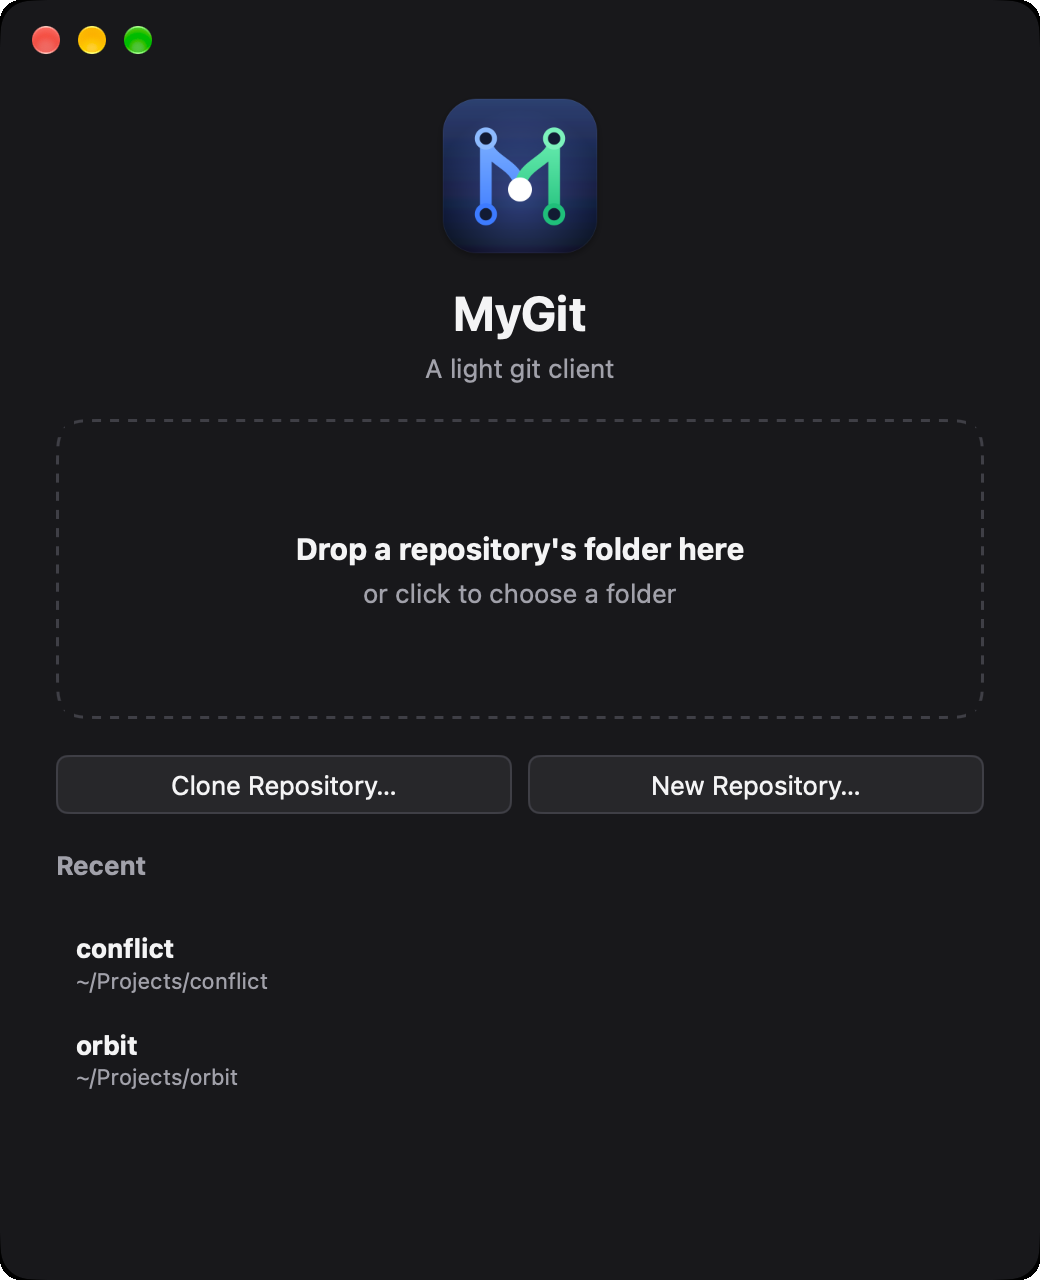
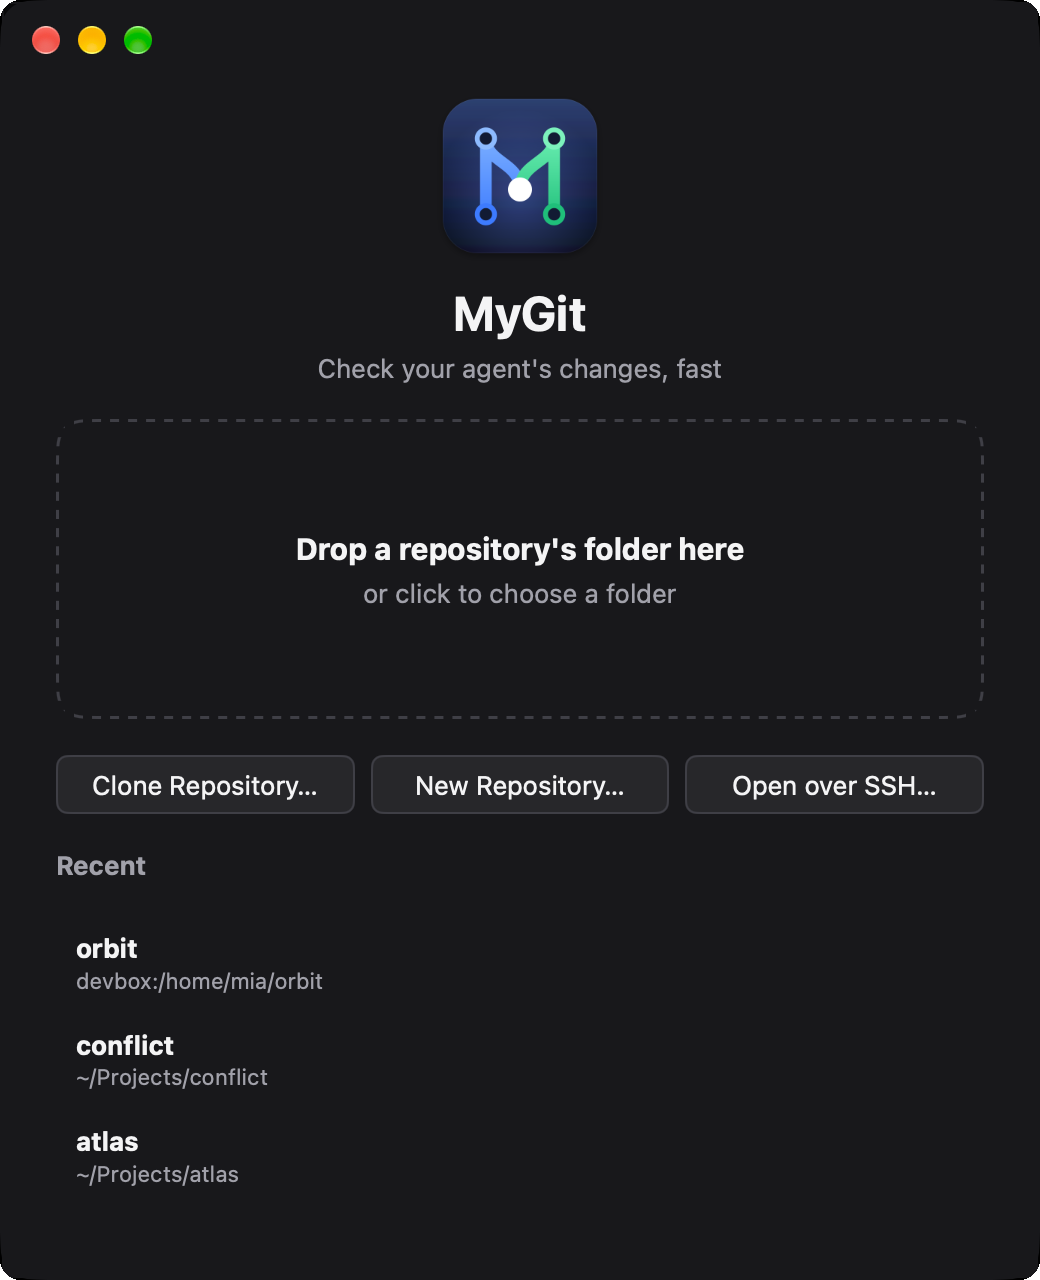
Show opening over SSH in the welcome window's screenshots
The READMEs' and the site's welcome window was of an older version, with
its old tagline and two buttons. It is rendered headless now
(TestDumpWelcome), with Open over SSH and a repository on devbox among
those opened lately.

A folder opened lately that isn't there is named by its folder again, not
read as a host's.

diff --git a/visual_test.go b/visual_test.go
@@ -232,3 +232,37 @@ func orbitRepo(t *testing.T) string {
 	write("src/api.ts", "export async function fetchAll(tries = 3) {\n  for (let i = 1; ; i++) {\n    try {\n      return (await fetch('/positions')).json()\n    } catch (e) {\n      if (i === tries) throw e\n    }\n  }\n}\n")
 	return dir
 }
+
+// TestDumpWelcome renders the welcome window into MYGIT_DUMP, 520×640 at
+// 2×, as the READMEs and the site show it: repositories opened lately, one
+// on another computer. MYGIT_LOCALE renders it in another language, as en.
+func TestDumpWelcome(t *testing.T) {
+	out := os.Getenv("MYGIT_DUMP")
+	if out == "" {
+		t.Skip()
+	}
+	if l := os.Getenv("MYGIT_LOCALE"); l != "" {
+		i18n.SetLocaleFunc(func() string { return l })
+		defer i18n.SetLocaleFunc(func() string { return "zh-Hans" })
+	}
+	home := t.TempDir()
+	t.Setenv("HOME", home)
+	var recent []string
+	for _, name := range []string{"conflict", "atlas"} {
+		dir := filepath.Join(home, "Projects", name)
+		os.MkdirAll(dir, 0o755)
+		recent = append(recent, dir)
+	}
+	old := prefs.Remotes
+	prefs.Remotes = []string{"devbox:/home/mia/orbit"}
+	defer func() { prefs.Remotes = old }()
+	w := &welcome{recent: recent}
+	tt := ui.NewTester(w.view, 520, 640)
+	tt.SetDark(true)
+	tt.SetScale(2)
+	tt.SetTitleBar(ui.TitleBar{Left: 80, Height: 28})
+	tt.Frame()
+	f, _ := os.Create(out + "/welcome.png")
+	png.Encode(f, tt.Image())
+	f.Close()
+}

diff --git a/welcome.go b/welcome.go
@@ -177,8 +177,9 @@ func (w *welcome) recentRow(c *ui.Context, location string) {
 	name, where := filepath.Base(location), homeRelative(location)
 	host, dir, remote := "", "", false
 	if !exists(location) {
-		host, dir, remote = parseLocation(location)
-		name = path.Base(dir)
+		if host, dir, remote = parseLocation(location); remote {
+			name = path.Base(dir)
+		}
 	}
 	row := ui.ButtonBase(c.Key(location)).Padding(8, 10).Gap(10).Radius(8).AlignItems(ui.Center).
 		Cursor(ui.CursorPointer).Tooltip(location).Label(loc.OpenRepoNamed(name))
